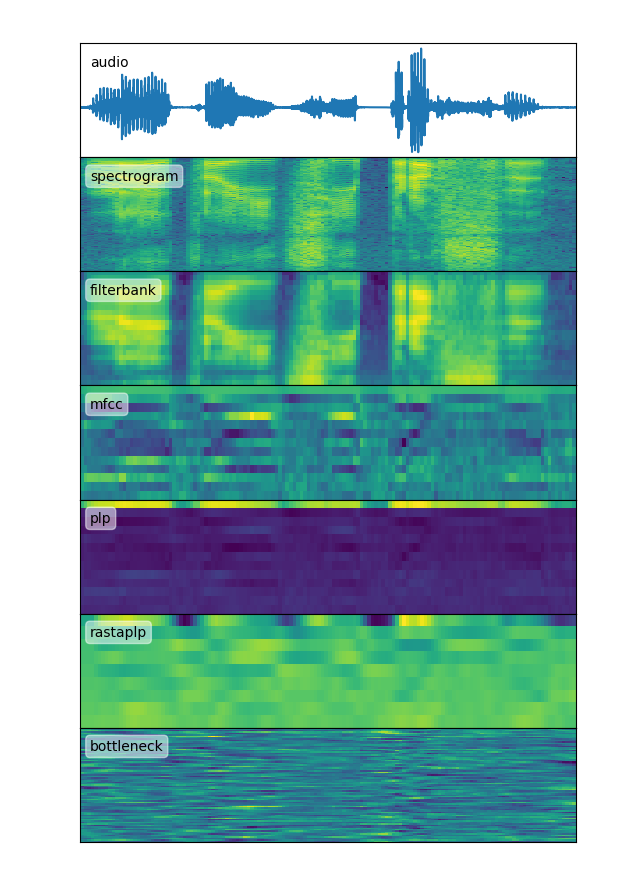
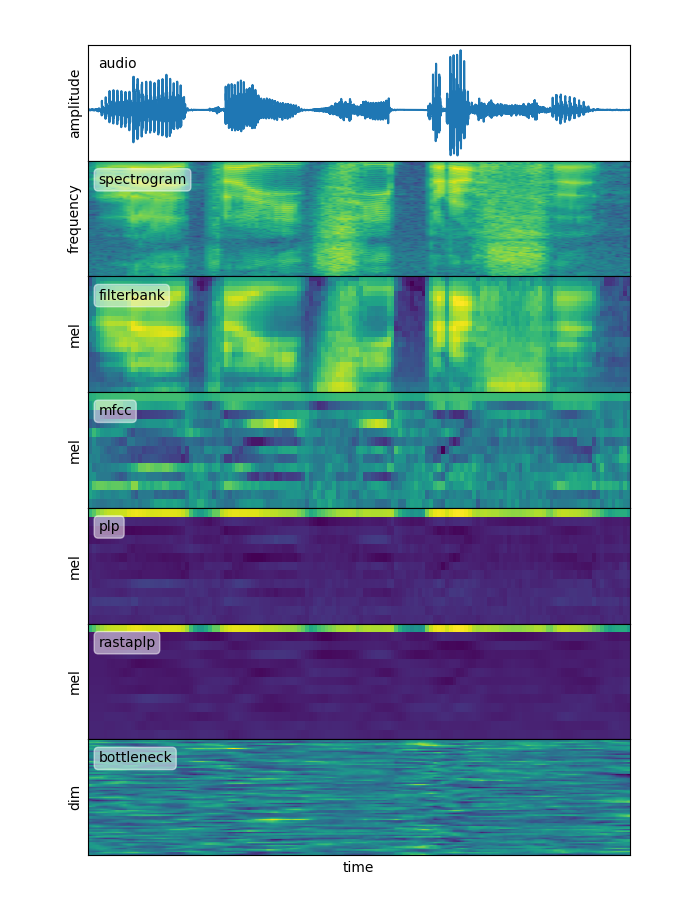
updated doc

diff --git a/shennong/features_collection.py b/shennong/features_collection.py
@@ -6,28 +6,38 @@
 - A collection can be saved to and loaded from a file with the :func:`save` and
   :func:`load` methods.
 
-- The following table details the supported file formats and compares the
-  obtained file size, writing and reading times on MFCC features computed on
-  the `Buckeye Corpus <https://buckeyecorpus.osu.edu>`_
-  (English, 40 speakers, about 38 hours of speech and 254 files):
+Supported file formats
+----------------------
 
-  ===========  =========  =========  ============  ============
-  File format  Extension  File size  Writing time  Reading time
-  ===========  =========  =========  ============  ============
-  pickle       .pkl       883.7 MB   0:00:07       0:00:05
-  h5features   .h5f       873.0 MB   0:00:21       0:00:07
-  numpy        .npz       869.1 MB   0:02:30       0:00:22
-  matlab       .mat       721.1 MB   0:00:59       0:00:11
-  kaldi        .ark       1.3 GB     0:00:06       0:00:07
-  CSV          folder     4.8 GB     0:03:02       0:03:11
-  ===========  =========  =========  ============  ============
+The following table details the supported file formats and compares the
+obtained file size, writing and reading times on MFCC features computed on the
+`Buckeye Corpus <https://buckeyecorpus.osu.edu>`_ (English, 40 speakers, about
+38 hours of speech and 254 files):
 
-- The documention for the *h5features* format is available at
-  https://docs.cognitive-ml.fr/h5features.
+===========  =========  =========  ============  ============
+File format  Extension  File size  Writing time  Reading time
+===========  =========  =========  ============  ============
+pickle       .pkl       883.7 MB   0:00:07       0:00:05
+h5features   .h5f       873.0 MB   0:00:21       0:00:07
+numpy        .npz       869.1 MB   0:02:30       0:00:22
+matlab       .mat       721.1 MB   0:00:59       0:00:11
+kaldi        .ark       1.3 GB     0:00:06       0:00:07
+CSV          folder     4.8 GB     0:03:02       0:03:11
+===========  =========  =========  ============  ============
 
-- The CSV serializer writes into a folder: one CSV file per feature in the
-  ``FeaturesCollection``, with an optional JSON file storing features
-  properties.
+- **pickle**: standard Python format, fast and efficient for little to medium
+  datasets.
+
+- **h5features**: based on HDF5 and specialized for very big datasets. Supports
+  partial read/write of datasets bigger than RAM. The documention is available
+  at https://docs.cognitive-ml.fr/h5features.
+
+- **numpy**: standard numpy format.
+
+- **matlab** and **kaldi**: for compatibility.
+
+- **csv**: each features in the collection is wrote as plain text in a
+  dedicated file, with an optional JSON file storing features properties.
 
 Examples
 --------

diff --git a/examples/plot_features.py b/examples/plot_features.py
@@ -13,11 +13,15 @@ from shennong.processor import (
 
 def main():
     parser = argparse.ArgumentParser(description=__doc__)
-    parser.add_argument('wav', help='wav file to compute features on')
+    parser.add_argument(
+        'wav', help='wav file to compute features on')
+    parser.add_argument(
+        '-o', '--output-file',
+        help='output file, display on screen if not specified')
+    args = parser.parse_args()
 
     # load the wav file
-    wav_file = parser.parse_args().wav
-    audio = Audio.load(wav_file)
+    audio = Audio.load(args.wav)
 
     # initialize features processors
     processors = {
@@ -32,7 +36,7 @@ def main():
     features = {k: v.process(audio) for k, v in processors.items()}
 
     # plot the audio signal and the resulting features
-    _, axes = plt.subplots(
+    fig, axes = plt.subplots(
         nrows=len(processors)+1,
         gridspec_kw={'top': 0.95, 'bottom': 0.05, 'hspace': 0},
         subplot_kw={'xticks': [], 'yticks': []})
@@ -51,7 +55,18 @@ def main():
             bbox={'boxstyle': 'round', 'alpha': 0.5, 'color': 'white'},
             transform=axes[n].transAxes)
 
-    plt.show()
+    axes[0].set_ylabel('amplitude')
+    axes[1].set_ylabel('frequency')
+    for i in range(2, 6):
+        axes[i].set_ylabel('mel')
+    axes[-1].set_ylabel('dim')
+    axes[-1].set_xlabel('time')
+
+    fig.set_size_inches(7, 9)
+    if args.output_file:
+        fig.savefig(args.output_file)
+    else:
+        plt.show()
 
 
 if __name__ == '__main__':

diff --git a/doc/source/intro_features.rst b/doc/source/intro_features.rst
@@ -15,9 +15,9 @@ Implemented models
   ``shennong``, the detailed documentation is available :ref:`here
   <features.processor>`:
 
-  ===============                 ==============
+  =============================== =======================
   Features                        Implementation
-  ===============                 ==============
+  =============================== =======================
   Spectrogram                     from Kaldi_
   Filterbank                      from Kaldi_
   MFCC                            from Kaldi_
@@ -26,7 +26,7 @@ Implemented models
   One Hot Vectors                 shennong
   Pitch                           from Kaldi_ and CREPE_
   Energy                          from Kaldi_
-  ===============                 ==============
+  =============================== =======================
 
 * The following post-processing pipelines are implemented in
   ``shennong``, the detailed documentation is available :ref:`here
@@ -47,7 +47,7 @@ Implemented models
   using the example script ``shennong/examples/plot_features.py``:
 
   .. image:: static/features.png
-     :width: 70%
+     :width: 80%
 
 
 Features comparison
@@ -73,12 +73,11 @@ experiment is available at ``shennong/examples/features_abx``.
 
   * The considered features extraction algorithms are:
 
-    * spectrogram
-    * filterbanks
+    * Spectrogram
+    * Mel Filterbanks
     * MFCC
-    * PLP
-    * Rasta-PLP
-    * bottleneck
+    * PLP (with and with Rasta filtering)
+    * Bottleneck
 
   * Each is tested with 3 distinct parameters sets, with and without VTLN:
 
@@ -110,9 +109,9 @@ experiment is available at ``shennong/examples/features_abx``.
   +-------------+-------+---------+-------+------+-------+-------+
   | mfcc        |  27.2 |  26.4   | 24.0  | 23.4 | 22.7  | 20.0  |
   +-------------+-------+---------+-------+------+-------+-------+
-  | plp         |  28.0 |  26.6   | 23.8  | 24.8 | 23.5  | 19.7  |
+  | plp         |  28.0 |  26.6   | 23.8  | 24.7 | 23.5  | 19.7  |
   +-------------+-------+---------+-------+------+-------+-------+
-  | rastaplp    |  26.8 |  30.0   | 22.7  | -    | -     | -     |
+  | rastaplp    |  28.5 |  26.8   | 25.3  | 24.6 | 23.6  | 21.3  |
   +-------------+-------+---------+-------+------+-------+-------+
   | bottleneck  |  12.5 |  12.5   | 12.5  | -    | -     | -     |
   +-------------+-------+---------+-------+------+-------+-------+
@@ -131,9 +130,9 @@ experiment is available at ``shennong/examples/features_abx``.
   +-------------+--------+--------+-------+-------+--------+-------+
   | mfcc        |  13.0  |   12.5 |  12.4 | 12.8  | 12.3   | 12.0  |
   +-------------+--------+--------+-------+-------+--------+-------+
-  | plp         |  12.5  |   12.4 |  12.0 | 12.5  | 12.4   | 11.9  |
+  | plp         |  12.5  |   12.4 |  11.9 | 12.5  | 12.4   | 11.9  |
   +-------------+--------+--------+-------+-------+--------+-------+
-  | rastaplp    |  18.1  |   23.0 |  13.1 | -     | -      | -     |
+  | rastaplp    |  14.3  |   14.2 |  12.5 | 14.2  | 14.1   | 12.5  |
   +-------------+--------+--------+-------+-------+--------+-------+
   | bottleneck  |   8.5  |    8.5 |   8.6 | -     | -      | -     |
   +-------------+--------+--------+-------+-------+--------+-------+
@@ -153,9 +152,9 @@ experiment is available at ``shennong/examples/features_abx``.
   +-------------+-------+---------+-------+------+--------+--------+
   | mfcc        |  33.6 |  32.8   | 26.0  | 31.4 |  30.6  | 22.7   |
   +-------------+-------+---------+-------+------+--------+--------+
-  | plp         |  33.5 |  31.2   | 26.2  | 31.8 |  29.5  | 22.3   |
+  | plp         |  33.5 |  31.2   | 26.2  | 31.7 |  29.5  | 22.2   |
   +-------------+-------+---------+-------+------+--------+--------+
-  | rastaplp    |  27.1 |  25.6   | 21.3  | -    | -      | -      |
+  | rastaplp    |  27.9 |  25.2   | 23.9  | 25.0 | 22.8   | 21.7   |
   +-------------+-------+---------+-------+------+--------+--------+
   | bottleneck  |  9.5  |   9.6   |  9.6  | -    | -      | -      |
   +-------------+-------+---------+-------+------+--------+--------+
@@ -174,9 +173,9 @@ experiment is available at ``shennong/examples/features_abx``.
   +-------------+--------+--------+-------+------+-------+-------+
   | mfcc        |  17.1  |   16.2 |  14.6 | 17.5 | 16.5  | 14.6  |
   +-------------+--------+--------+-------+------+-------+-------+
-  | plp         |  16.2  |   14.6 |  14.0 | 16.3 | 14.7  | 14.2  |
+  | plp         |  16.2  |   14.6 |  14.0 | 16.2 | 14.7  | 14.2  |
   +-------------+--------+--------+-------+------+-------+-------+
-  | rastaplp    |  19.5  |   20.1 |  12.6 | -    | -     | -     |
+  | rastaplp    |  13.7  |   12.5 |  12.3 | 13.5 | 12.2  | 12.0  |
   +-------------+--------+--------+-------+------+-------+-------+
   | bottleneck  |   6.9  |    7.0 |   7.3 | -    | -     | -     |
   +-------------+--------+--------+-------+------+-------+-------+

diff --git a/doc/source/python/processor/index.rst b/doc/source/python/processor/index.rst
@@ -12,7 +12,6 @@ The available speech features processors are:
    filterbank
    mfcc
    plp
-   rasta_plp
    bottleneck
    onehot
    pitch_kaldi
